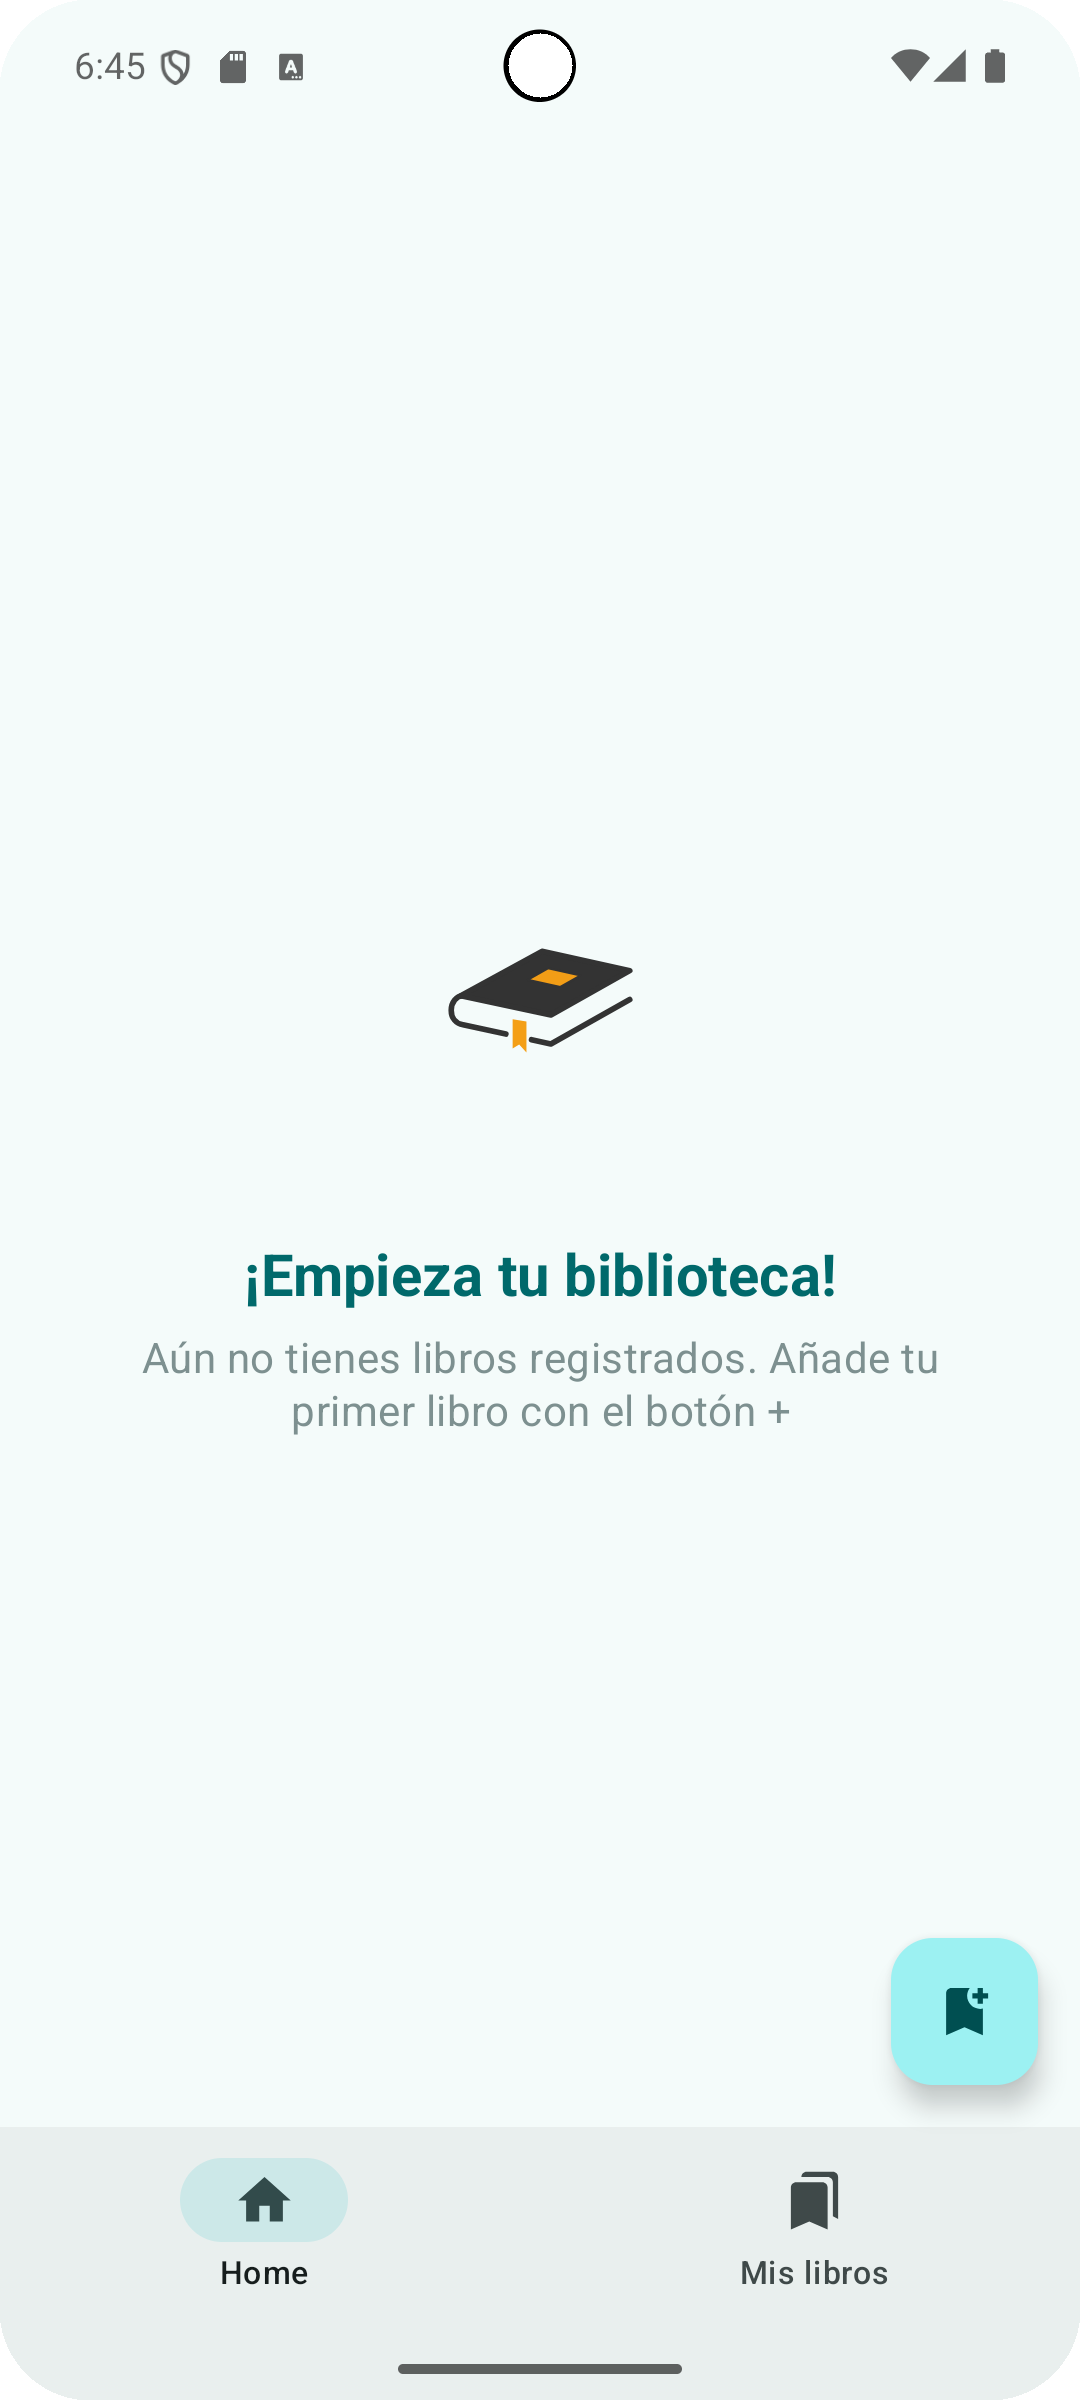
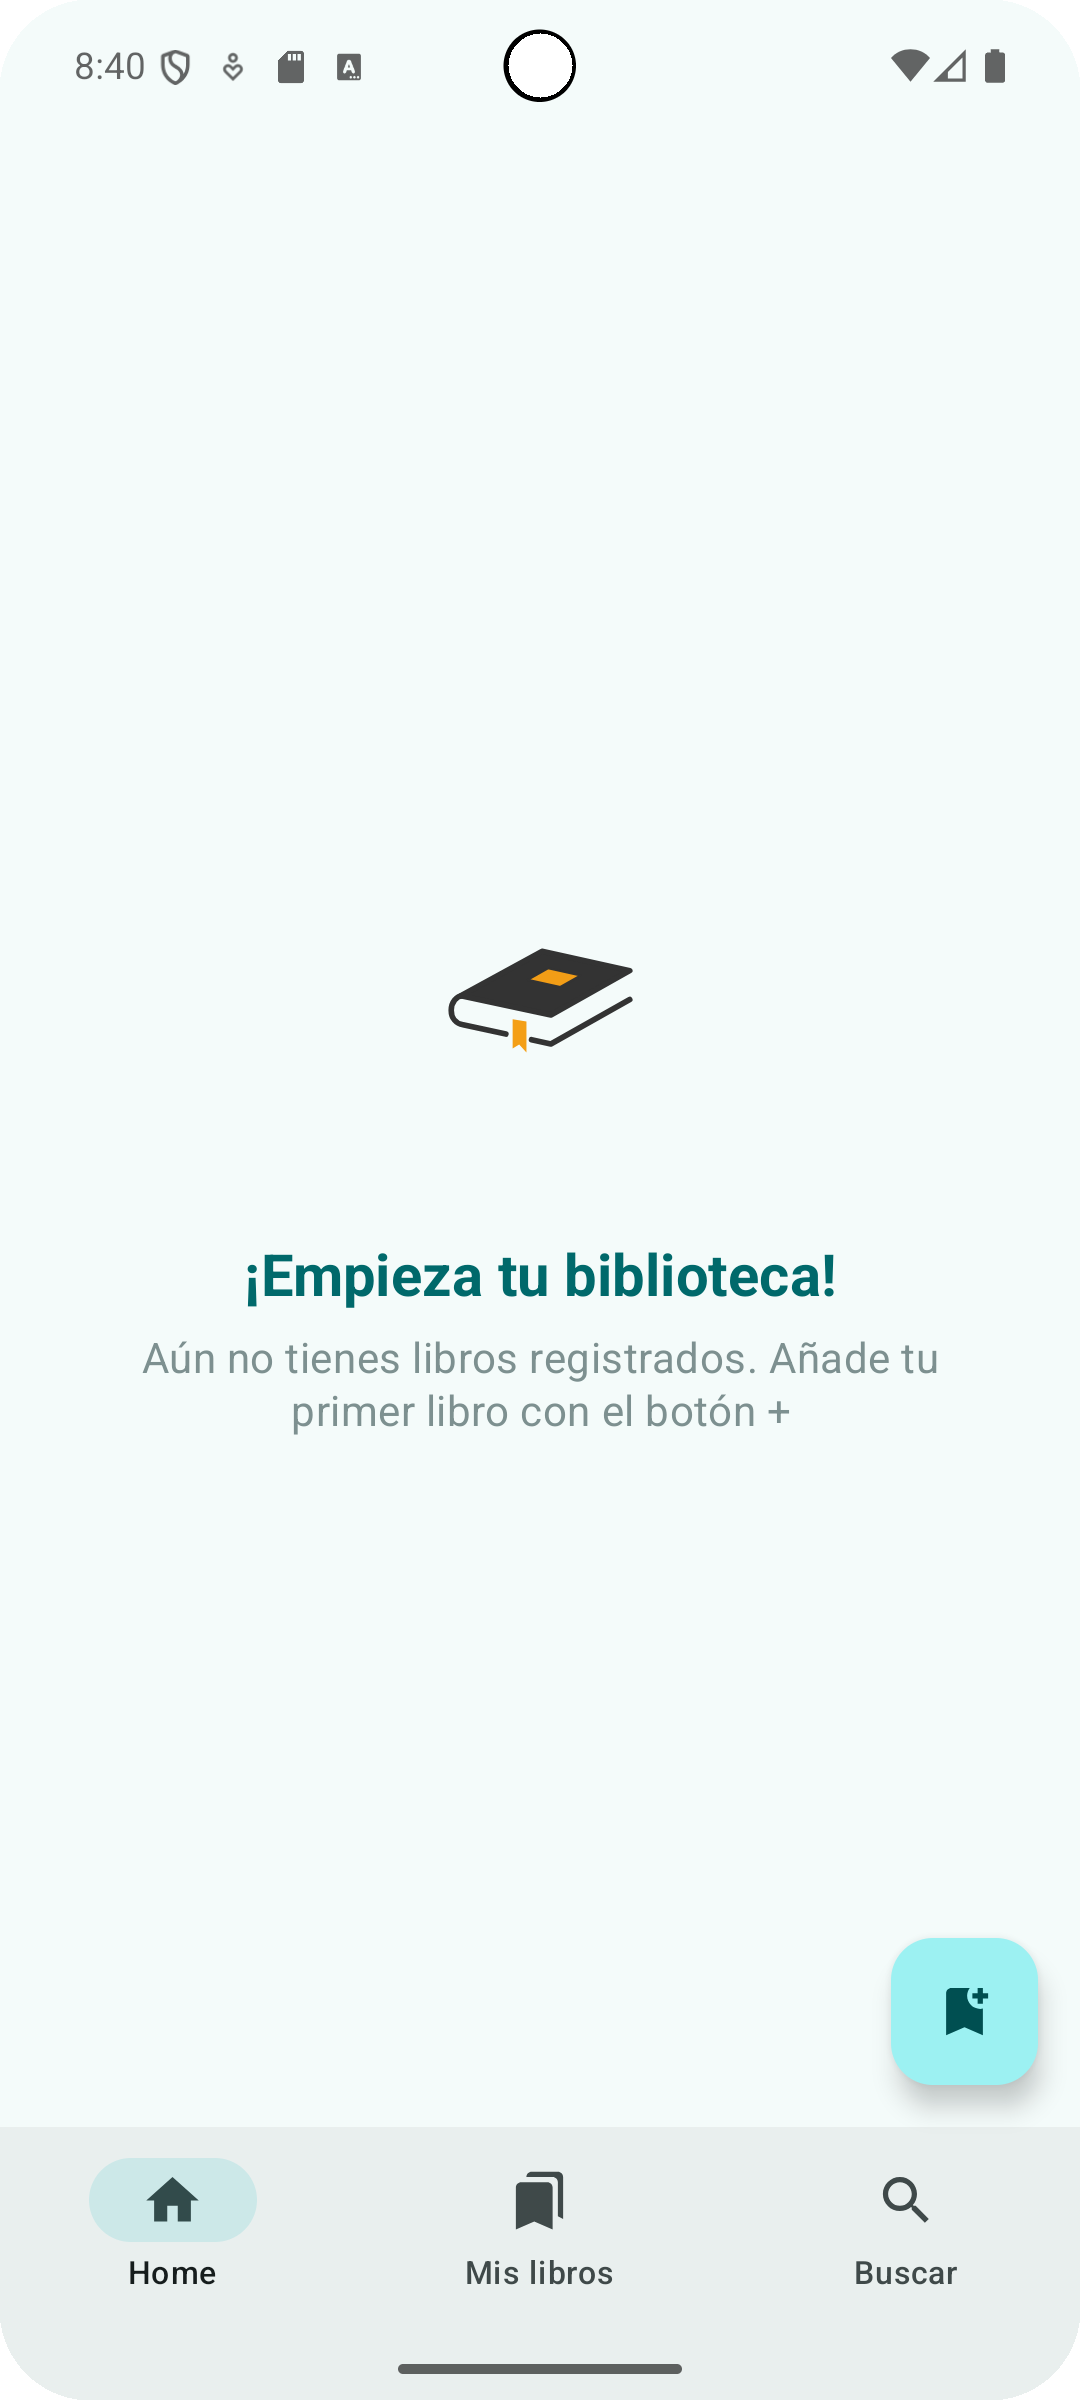
Update readme

diff --git a/README.md b/README.md
@@ -26,12 +26,16 @@ Su objetivo es ofrecer una experiencia moderna y minimalista para organizar tus 
 - 📚 **Pantalla de listado de libros**  
   Consulta todos los libros categorizados por estado (*leído*, *leyendo*, *pendiente*).
 
+- 🔍 **Búsqueda de libros con Open Library API**
+  Encuentra libros por título, autor o ISBN y añádelos directamente a tu biblioteca.
+
 - 🧠 **Arquitectura moderna (MVVM)**  
   Basada en buenas prácticas de Android para garantizar escalabilidad y mantenibilidad.
 
 - 💉 **Inyección de dependencias con Dagger Hilt**
 
 - 🗄 **Persistencia local con Room Database**
+- 🌐 **Integración con API REST (Retrofit)**
 
 - 🎨 **Interfaz construida en Jetpack Compose (Material 3)**
 
@@ -45,6 +49,8 @@ Su objetivo es ofrecer una experiencia moderna y minimalista para organizar tus 
 | **UI Toolkit** | [Jetpack Compose](https://developer.android.com/jetpack/compose) |
 | **Arquitectura** | MVVM |
 | **DI Framework** | [Dagger Hilt](https://dagger.dev/hilt/) |
+| **Networking** | [Retrofit](https://square.github.io/retrofit/) + [OkHttp](https://square.github.io/okhttp/) |
+| **Carga de imágenes** | [Coil](https://coil-kt.github.io/coil/) |
 | **Base de datos local** | [Room](https://developer.android.com/training/data-storage/room) |
 | **Navegación** | [Navigation Compose](https://developer.android.com/jetpack/compose/navigation) |
 | **Asincronía** | Coroutines + Flow |
@@ -55,20 +61,18 @@ Su objetivo es ofrecer una experiencia moderna y minimalista para organizar tus 
 ## 📱 Capturas de pantalla
 
 
-| Pantalla principal | Listado de libros | Nuevo libro |
-|--------------------|-------------------|-------------------|
-| ![Home Screenshot](screenshots/Home.png) | ![List Screenshot](screenshots/Home2.png) | ![New Screenshot](screenshots/NewBook.png) |
+| Pantalla principal | Listado de libros | Nuevo libro | Buscar libro |
+|--------------------|-------------------|-------------------|-------------------|
+| ![Home Screenshot](screenshots/Home.png) | ![List Screenshot](screenshots/Home2.png) | ![New Screenshot](screenshots/NewBook.png) | ![Search Screenshot](screenshots/SearchScreen.png) |
 
 ---
 
 ## 🧪 Estado del proyecto
 
-🟢 **Versión actual:** `v2.0.0`  
+🟢 **Versión actual:** `v3.0.0`  
 🔧 Proyecto en desarrollo activo.  
-Se planifican futuras actualizaciones para:s
+Se planifican futuras actualizaciones para:
 - Refinamiento visual.
-- Integracion con API para búsqueda de libros.
-
 ---
 
 ## 📝 Licencia
